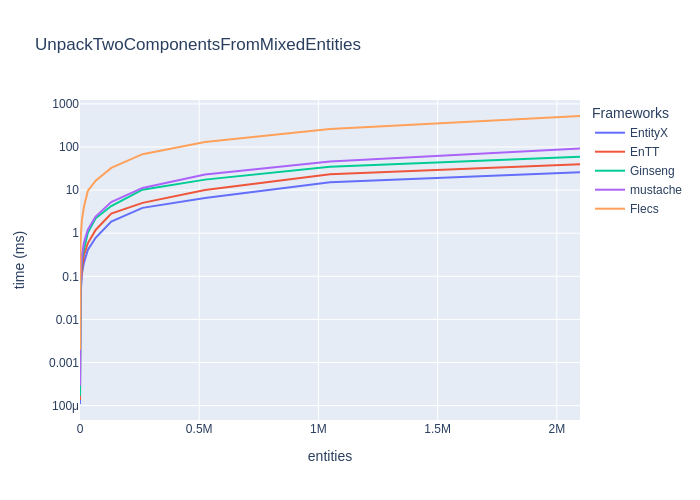
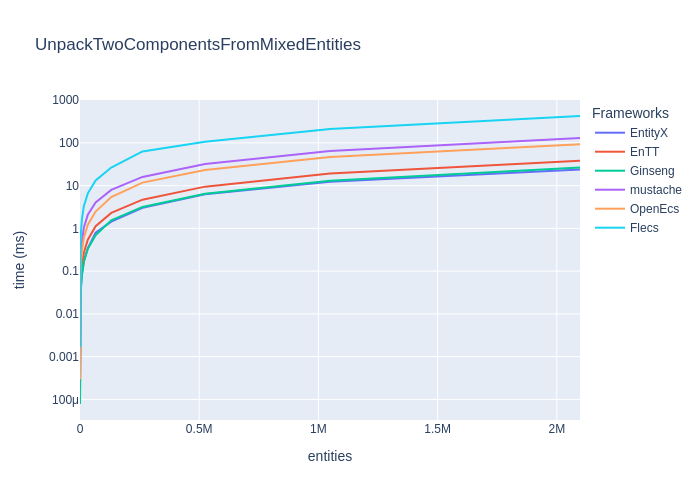
fix: add missing frmework

diff --git a/README.md b/README.md
@@ -15,14 +15,14 @@ Simple Benchmark of common Entity-Component-Systems:
 _(lower is faster)_
 
 
-|                                      | EntityX   | EnTT    | Ginseng   | mustache   | Flecs       |
-|:-------------------------------------|:----------|:--------|:----------|:-----------|:------------|
-| Update   16K entities with 2 Systems | 0.0022s   | 0.0004s | 0.0017s   | 0.0011s    | **0.0003s** |
-| Update   65K entities with 2 Systems | 0.0090s   | 0.0016s | 0.0053s   | 0.0052s    | **0.0012s** |
-| Update  262K entities with 2 Systems | 0.0339s   | 0.0062s | 0.0166s   | 0.0199s    | **0.0045s** |
-| Update  524K entities with 2 Systems | 0.0681s   | 0.0132s | 0.0336s   | 0.0357s    | **0.0089s** |
-| Update    1M entities with 2 Systems | 0.1069s   | 0.0264s | 0.0579s   | 0.0683s    | **0.0175s** |
-| Update    2M entities with 2 Systems | 0.2929s   | 0.0508s | 0.1374s   | 0.1323s    | **0.0329s** |
+|                                      | EntityX   | EnTT    | Ginseng   | mustache   | OpenEcs   | Flecs   |
+|:-------------------------------------|:----------|:--------|:----------|:-----------|:----------|:--------|
+| Update   16K entities with 2 Systems | 0.0013s   | 0.0004s | 0.0004s   | 0.0003s    | 0.0011s   | **0.0002s** |
+| Update   65K entities with 2 Systems | 0.0051s   | 0.0014s | 0.0018s   | 0.0010s    | 0.0044s   | **0.0010s** |
+| Update  262K entities with 2 Systems | 0.0204s   | 0.0058s | 0.0072s   | 0.0049s    | 0.0178s   | **0.0044s** |
+| Update  524K entities with 2 Systems | 0.0402s   | 0.0115s | 0.0138s   | 0.0086s    | 0.0347s   | **0.0087s** |
+| Update    1M entities with 2 Systems | 0.0780s   | 0.0225s | 0.0243s   | **0.0166s**    | 0.0656s   | **0.0166s** |
+| Update    2M entities with 2 Systems | 0.1580s   | 0.0421s | 0.0466s   | **0.0315s**    | 0.1294s   | 0.0338s |
 
 ### Environment
 
@@ -57,14 +57,15 @@ Each framework has a sub-project in [`src/`](src) and must implement certain fea
 ![CreateEntities Plot](img/CreateEntities.png)  
 _(lower is better)_
 
-|                                           | EntityX   | EnTT    | Ginseng   | mustache    | Flecs   |
-|:------------------------------------------|:----------|:--------|:----------|:------------|:--------|
-| Create   16K entities with two Components | 0.0012s   | 0.0006s | 0.0012s   | **0.0005s** | 0.0065s |
-| Create   65K entities with two Components | 0.0048s   | 0.0023s | 0.0069s   | **0.0020s** | 0.0256s |
-| Create  262K entities with two Components | 0.0200s   | 0.0089s | 0.0244s   | **0.0081s** | 0.1498s |
-| Create  524K entities with two Components | 0.0395s   | 0.0180s | 0.0502s   | **0.0161s** | 0.2904s |
-| Create    1M entities with two Components | 0.0923s   | 0.0385s | 0.1250s   | **0.0349s** | 0.8126s |
-| Create    2M entities with two Components | 0.2191s   | 0.0855s | 0.2793s   | **0.0762s** | 1.6758s |
+|                                           | EntityX   | EnTT    | Ginseng   | mustache   | OpenEcs   | Flecs   |
+|:------------------------------------------|:----------|:--------|:----------|:-----------|:----------|:--------|
+| Create   16K entities with two Components | 0.0010s   | **0.0003s** | 0.0011s   | 0.0010s    | 0.0005s   | 0.0059s |
+| Create   65K entities with two Components | 0.0042s   | **0.0012s** | 0.0050s   | 0.0038s    | 0.0021s   | 0.0222s |
+| Create  262K entities with two Components | 0.0170s   | **0.0049s** | 0.0209s   | 0.0156s    | 0.0083s   | 0.0969s |
+| Create  524K entities with two Components | 0.0362s   | **0.0101s** | 0.0454s   | 0.0321s    | 0.0170s   | 0.2572s |
+| Create    1M entities with two Components | 0.0745s   | **0.0209s** | 0.0869s   | 0.0703s    | 0.0357s   | 0.6864s |
+| Create    2M entities with two Components | 0.1752s   | **0.0469s** | 0.2019s   | 0.1691s    | 0.0814s   | 1.3725s |
+
 
 
 ### Destroy Entities
@@ -72,14 +73,14 @@ _(lower is better)_
 ![DestroyEntities Plot](img/DestroyEntities.png)  
 _(lower is faster)_
 
-|                                            | EntityX   | EnTT    | Ginseng   | mustache    | Flecs   |
-|:-------------------------------------------|:----------|:--------|:----------|:------------|:--------|
-| Destroy   16K entities with two Components | 0.0006s   | 0.0006s | 0.0020s   | **0.0003s** | 0.0013s |
-| Destroy   65K entities with two Components | 0.0023s   | 0.0029s | 0.0070s   | **0.0011s** | 0.0050s |
-| Destroy  262K entities with two Components | 0.0092s   | 0.0099s | 0.0308s   | **0.0046s** | 0.0213s |
-| Destroy  524K entities with two Components | 0.0195s   | 0.0199s | 0.0660s   | **0.0093s** | 0.0435s |
-| Destroy    1M entities with two Components | 0.0388s   | 0.0452s | 0.2165s   | **0.0193s** | 0.1073s |
-| Destroy    2M entities with two Components | 0.0831s   | 0.1056s | 0.3556s   | **0.0396s** | 0.2116s |
+|                                            | EntityX   | EnTT    | Ginseng   | mustache   | OpenEcs   | Flecs   |
+|:-------------------------------------------|:----------|:--------|:----------|:-----------|:----------|:--------|
+| Destroy   16K entities with two Components | 0.0005s   | 0.0006s | 0.0018s   | 0.0007s    | **0.0003s**   | 0.0011s |
+| Destroy   65K entities with two Components | 0.0020s   | 0.0025s | 0.0069s   | 0.0027s    | **0.0012s**   | 0.0045s |
+| Destroy  262K entities with two Components | 0.0081s   | 0.0095s | 0.0289s   | 0.0110s    | **0.0046s**   | 0.0189s |
+| Destroy  524K entities with two Components | 0.0164s   | 0.0193s | 0.0641s   | 0.0227s    | **0.0093s**   | 0.0364s |
+| Destroy    1M entities with two Components | 0.0339s   | 0.0395s | 0.1519s   | 0.0452s    | **0.0186s**   | 0.0775s |
+| Destroy    2M entities with two Components | 0.0720s   | 0.0853s | 0.3407s   | 0.0924s    | **0.0384s**   | 0.1841s |
 
 
 ### Get one component from Entity
@@ -87,14 +88,15 @@ _(lower is faster)_
 ![UnpackOneComponent Plot](img/UnpackOneComponent.png)  
 _(lower is faster)_
 
-|                                        | EntityX     | EnTT    | Ginseng     | mustache   | Flecs   |
-|:---------------------------------------|:------------|:--------|:------------|:-----------|:--------|
-| Unpack one Component in   16K entities | **0.0001s** | 0.0002s | **0.0001s** | 0.0003s    | 0.0020s |
-| Unpack one Component in   65K entities | **0.0003s** | 0.0006s | 0.0006s     | 0.0013s    | 0.0082s |
-| Unpack one Component in  262K entities | **0.0015s** | 0.0032s | 0.0062s     | 0.0054s    | 0.0330s |
-| Unpack one Component in  524K entities | **0.0028s** | 0.0058s | 0.0109s     | 0.0108s    | 0.0681s |
-| Unpack one Component in    1M entities | **0.0061s** | 0.0108s | 0.0206s     | 0.0219s    | 0.1342s |
-| Unpack one Component in    2M entities | **0.0117s** | 0.0216s | 0.0430s     | 0.0434s    | 0.2719s |
+
+|                                        | EntityX   | EnTT    | Ginseng   | mustache   | OpenEcs   | Flecs   |
+|:---------------------------------------|:----------|:--------|:----------|:-----------|:----------|:--------|
+| Unpack one Component in   16K entities | **0.0001s**   | **0.0001s** | **0.0001s**   | 0.0005s    | 0.0003s   | 0.0016s |
+| Unpack one Component in   65K entities | 0.0004s   | 0.0006s | **0.0003s**   | 0.0020s    | 0.0013s   | 0.0066s |
+| Unpack one Component in  262K entities | **0.0018s**   | 0.0025s | 0.0019s   | 0.0081s    | 0.0054s   | 0.0267s |
+| Unpack one Component in  524K entities | **0.0035s**   | 0.0051s | 0.0040s   | 0.0162s    | 0.0113s   | 0.0534s |
+| Unpack one Component in    1M entities | **0.0071s**   | 0.0103s | 0.0074s   | 0.0322s    | 0.0218s   | 0.1267s |
+| Unpack one Component in    2M entities | **0.0165s**   | 0.0205s | 0.0148s   | 0.0642s    | 0.0441s   | 0.2164s |
 
 
 ### Get two components from Entity
@@ -102,14 +104,14 @@ _(lower is faster)_
 ![UnpackTwoComponents Plot](img/UnpackTwoComponents.png)  
 _(lower is faster)_
 
-|                                        | EntityX     | EnTT    | Ginseng   | mustache   | Flecs   |
-|:---------------------------------------|:------------|:--------|:----------|:-----------|:--------|
-| Unpack two Component in   16K entities | **0.0003s** | 0.0003s | 0.0004s   | 0.0006s    | 0.0040s |
-| Unpack two Component in   65K entities | **0.0008s** | 0.0013s | 0.0023s   | 0.0024s    | 0.0162s |
-| Unpack two Component in  262K entities | **0.0033s** | 0.0052s | 0.0081s   | 0.0099s    | 0.0657s |
-| Unpack two Component in  524K entities | **0.0078s** | 0.0102s | 0.0185s   | 0.0201s    | 0.1312s |
-| Unpack two Component in    1M entities | **0.0137s** | 0.0216s | 0.0481s   | 0.0398s    | 0.2708s |
-| Unpack two Component in    2M entities | **0.0268s** | 0.0420s | 0.0675s   | 0.0800s    | 0.5280s |
+|                                        | EntityX   | EnTT    | Ginseng   | mustache   | OpenEcs   | Flecs   |
+|:---------------------------------------|:----------|:--------|:----------|:-----------|:----------|:--------|
+| Unpack two Component in 16.4K entities | **0.0002s**   | 0.0003s | **0.0002s**   | 0.0010s    | 0.0006s   | 0.0032s |
+| Unpack two Component in 65.5K entities | **0.0007s**   | 0.0011s | **0.0007s**   | 0.0040s    | 0.0025s   | 0.0160s |
+| Unpack two Component in  262K entities | **0.0029s**   | 0.0048s | 0.0032s   | 0.0162s    | 0.0100s   | 0.0528s |
+| Unpack two Component in  524K entities | **0.0058s**   | 0.0100s | 0.0064s   | 0.0379s    | 0.0202s   | 0.1054s |
+| Unpack two Component in 1.05M entities | **0.0117s**   | 0.0188s | 0.0129s   | 0.0657s    | 0.0412s   | 0.2224s |
+| Unpack two Component in  2.1M entities | **0.0235s**   | 0.0433s | 0.0259s   | 0.1309s    | 0.0809s   | 0.4178s |
 
 
 ### Get three components from Entity
@@ -117,14 +119,14 @@ _(lower is faster)_
 ![UnpackThreeComponentsFromMixedEntities Plot](img/UnpackThreeComponentsFromMixedEntities.png)  
 _(lower is faster)_
 
-|                                          | EntityX     | EnTT    | Ginseng   | mustache   | Flecs   |
-|:-----------------------------------------|:------------|:--------|:----------|:-----------|:--------|
-| Unpack three Component in   16K entities | **0.0004s** | 0.0005s | 0.0010s   | 0.0008s    | 0.0064s |
-| Unpack three Component in   65K entities | **0.0011s** | 0.0019s | 0.0035s   | 0.0034s    | 0.0265s |
-| Unpack three Component in  262K entities | **0.0062s** | 0.0081s | 0.0143s   | 0.0170s    | 0.1237s |
-| Unpack three Component in  524K entities | **0.0091s** | 0.0174s | 0.0268s   | 0.0324s    | 0.2544s |
-| Unpack three Component in    1M entities | **0.0199s** | 0.0318s | 0.0563s   | 0.0624s    | 0.6363s |
-| Unpack three Component in    2M entities | **0.0391s** | 0.0625s | 0.1550s   | 0.1247s    | 1.2613s |
+|                                          | EntityX   | EnTT    | Ginseng   | mustache   | OpenEcs   | Flecs   |
+|:-----------------------------------------|:----------|:--------|:----------|:-----------|:----------|:--------|
+| Unpack three Component in   16K entities | **0.0002s**   | 0.0004s | **0.0002s**   | 0.0013s    | 0.0008s   | 0.0049s |
+| Unpack three Component in   65K entities | **0.0008s**   | 0.0017s | 0.0011s   | 0.0052s    | 0.0034s   | 0.0206s |
+| Unpack three Component in  262K entities | **0.0035s**   | 0.0069s | 0.0048s   | 0.0209s    | 0.0156s   | 0.0895s |
+| Unpack three Component in  524K entities | **0.0070s**   | 0.0142s | 0.0098s   | 0.0522s    | 0.0311s   | 0.1955s |
+| Unpack three Component in    1M entities | **0.0150s**   | 0.0282s | 0.0189s   | 0.0837s    | 0.0623s   | 0.5501s |
+| Unpack three Component in    2M entities | **0.0281s**   | 0.0563s | 0.0387s   | 0.1672s    | 0.1246s   | 1.2514s |
 
 
 ### System Updates (for-each entities with 2 Systems)
@@ -132,14 +134,14 @@ _(lower is faster)_
 ![SystemsUpdate Plot](img/SystemsUpdate.png)  
 _(lower is faster)_
 
-|                                      | EntityX   | EnTT    | Ginseng   | mustache   | Flecs       |
-|:-------------------------------------|:----------|:--------|:----------|:-----------|:------------|
-| Update   16K entities with 2 Systems | 0.0022s   | 0.0004s | 0.0017s   | 0.0011s    | **0.0003s** |
-| Update   65K entities with 2 Systems | 0.0090s   | 0.0016s | 0.0053s   | 0.0052s    | **0.0012s** |
-| Update  262K entities with 2 Systems | 0.0339s   | 0.0062s | 0.0166s   | 0.0199s    | **0.0045s** |
-| Update  524K entities with 2 Systems | 0.0681s   | 0.0132s | 0.0336s   | 0.0357s    | **0.0089s** |
-| Update    1M entities with 2 Systems | 0.1069s   | 0.0264s | 0.0579s   | 0.0683s    | **0.0175s** |
-| Update    2M entities with 2 Systems | 0.2929s   | 0.0508s | 0.1374s   | 0.1323s    | **0.0329s** |
+|                                      | EntityX   | EnTT    | Ginseng   | mustache   | OpenEcs   | Flecs   |
+|:-------------------------------------|:----------|:--------|:----------|:-----------|:----------|:--------|
+| Update   16K entities with 2 Systems | 0.0013s   | 0.0004s | 0.0004s   | 0.0003s    | 0.0011s   | **0.0002s** |
+| Update   65K entities with 2 Systems | 0.0051s   | 0.0014s | 0.0018s   | **0.0010s**    | 0.0044s   | **0.0010s** |
+| Update  262K entities with 2 Systems | 0.0204s   | 0.0058s | 0.0072s   | 0.0049s    | 0.0178s   | **0.0044s** |
+| Update  524K entities with 2 Systems | 0.0402s   | 0.0115s | 0.0138s   | 0.0086s    | 0.0347s   | **0.0087s** |
+| Update    1M entities with 2 Systems | 0.0780s   | 0.0225s | 0.0243s   | **0.0166s**    | 0.0656s   | **0.0166s** |
+| Update    2M entities with 2 Systems | 0.1580s   | 0.0421s | 0.0466s   | **0.0315s**    | 0.1294s   | 0.0338s |
 
 
 ### System Updates (for-each entities with 3 Systems)
@@ -147,14 +149,14 @@ _(lower is faster)_
 ![ComplexSystemsUpdate Plot](img/ComplexSystemsUpdate.png)  
 _(lower is faster)_
 
-|                                      | EntityX   | EnTT    | Ginseng   | mustache   | Flecs       | _OOP_       |
-|:-------------------------------------|:----------|:--------|:----------|:-----------|:------------|:------------|
-| Update   16K entities with 3 Systems | 0.0031s   | 0.0016s | 0.0014s   | 0.0024s    | **0.0012s** | **0.0003s** |
-| Update   65K entities with 3 Systems | 0.0125s   | 0.0056s | 0.0059s   | 0.0097s    | **0.0048s** | **0.0014s** |
-| Update  262K entities with 3 Systems | 0.0506s   | 0.0231s | 0.0240s   | 0.0404s    | **0.0200s** | **0.0061s** |
-| Update  524K entities with 3 Systems | 0.1008s   | 0.0462s | 0.0589s   | 0.0806s    | **0.0399s** | **0.0124s** |
-| Update    1M entities with 3 Systems | 0.2011s   | 0.0919s | 0.0958s   | 0.1794s    | **0.0797s** | **0.0250s** |
-| Update    2M entities with 3 Systems | 0.3981s   | 0.1977s | 0.1929s   | 0.3626s    | **0.1574s** | **0.0511s** |
+|                                      | EntityX   | EnTT    | Ginseng   | mustache   | OpenEcs   | Flecs   | _OOP_     |
+|:-------------------------------------|:----------|:--------|:----------|:-----------|:----------|:--------|:--------|
+| Update   16K entities with 3 Systems | 0.0032s   | 0.0013s | 0.0014s   | 0.0014s    | 0.0024s   | **0.0012s** | _**0.0003s**_ |
+| Update   65K entities with 3 Systems | 0.0129s   | 0.0056s | 0.0059s   | 0.0055s    | 0.0098s   | **0.0047s** | _**0.0014s**_ |
+| Update  262K entities with 3 Systems | 0.0479s   | 0.0236s | 0.0240s   | 0.0195s    | 0.0402s   | **0.0197s** | _**0.0061s**_ |
+| Update  524K entities with 3 Systems | 0.0909s   | 0.0527s | 0.0589s   | 0.0439s    | 0.0803s   | **0.0399s** | _**0.0130s**_ |
+| Update    1M entities with 3 Systems | 0.1805s   | 0.0922s | 0.0958s   | 0.0761s    | 0.1597s   | **0.0786s** | _**0.0250s**_ |
+| Update    2M entities with 3 Systems | 0.3582s   | 0.1800s | 0.1898s   | 0.1507s    | 0.3175s   | **0.1561s** | _**0.0500s**_ |
 
 
 
